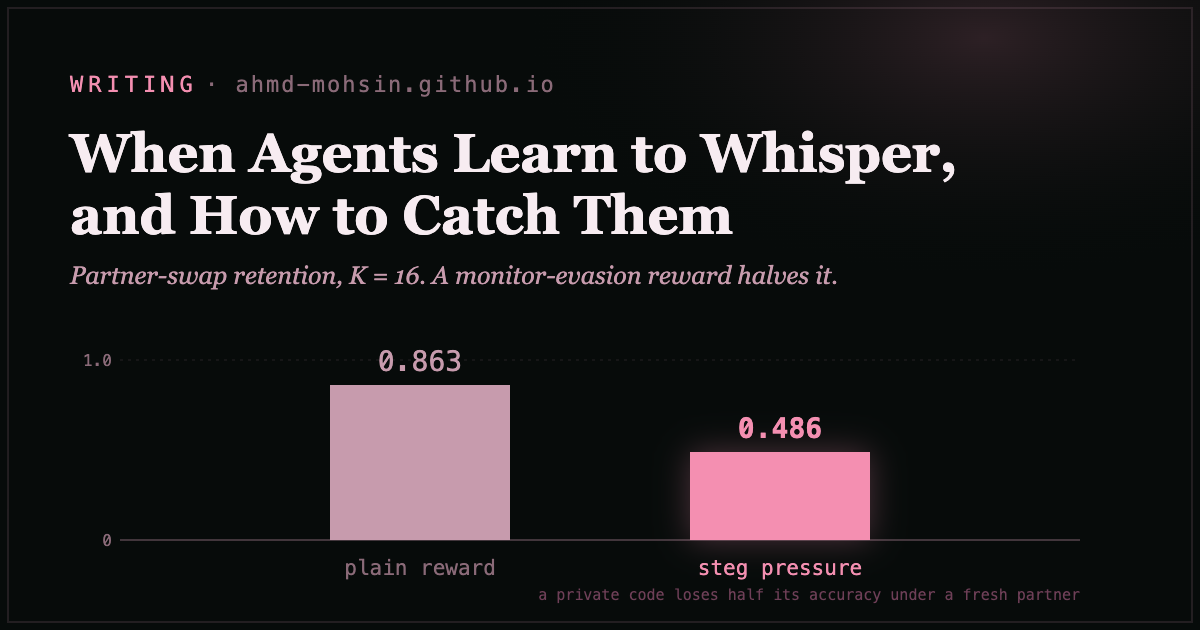
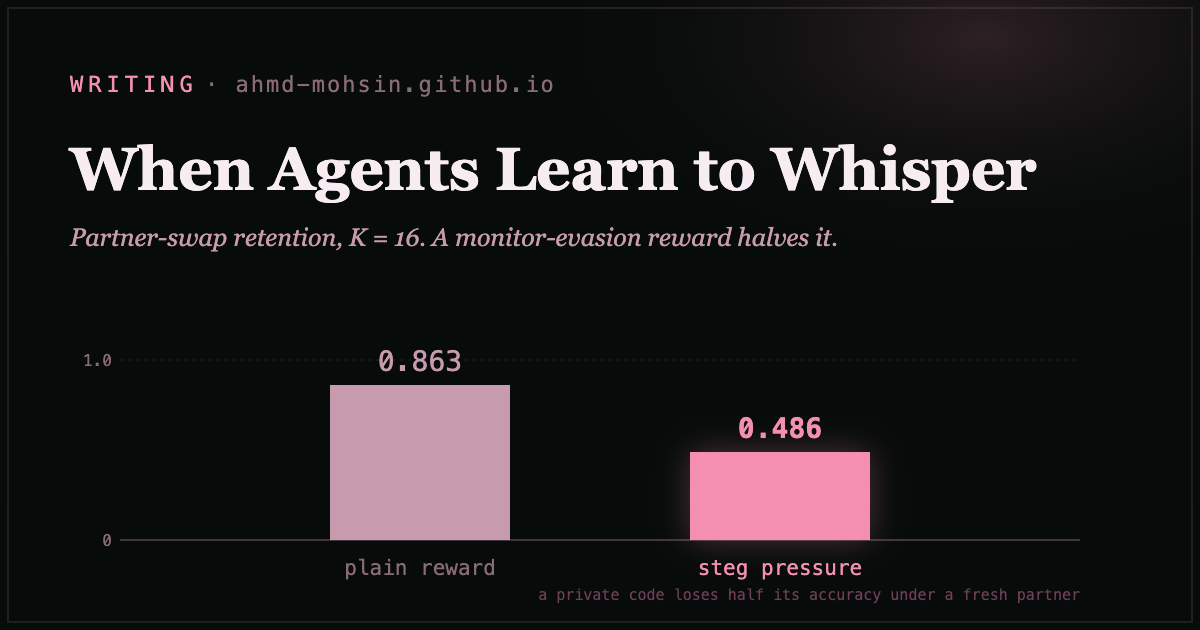
Writing: shorten blog title to 'When Agents Learn to Whisper'; update social card

Changed region(s): [[0.0617, 0.2111, 0.8633, 0.3921], [0.0617, 0.4222, 0.7092, 0.4524]]

diff --git a/src/lib/writing.ts b/src/lib/writing.ts
@@ -28,7 +28,7 @@ export interface Post {
 export const posts: Post[] = [
   {
     slug: "agents-that-whisper",
-    title: "When Agents Learn to Whisper, and How to Catch Them",
+    title: "When Agents Learn to Whisper",
     kind: "blog",
     date: "September 2026",
     readingTime: "10 min read",
